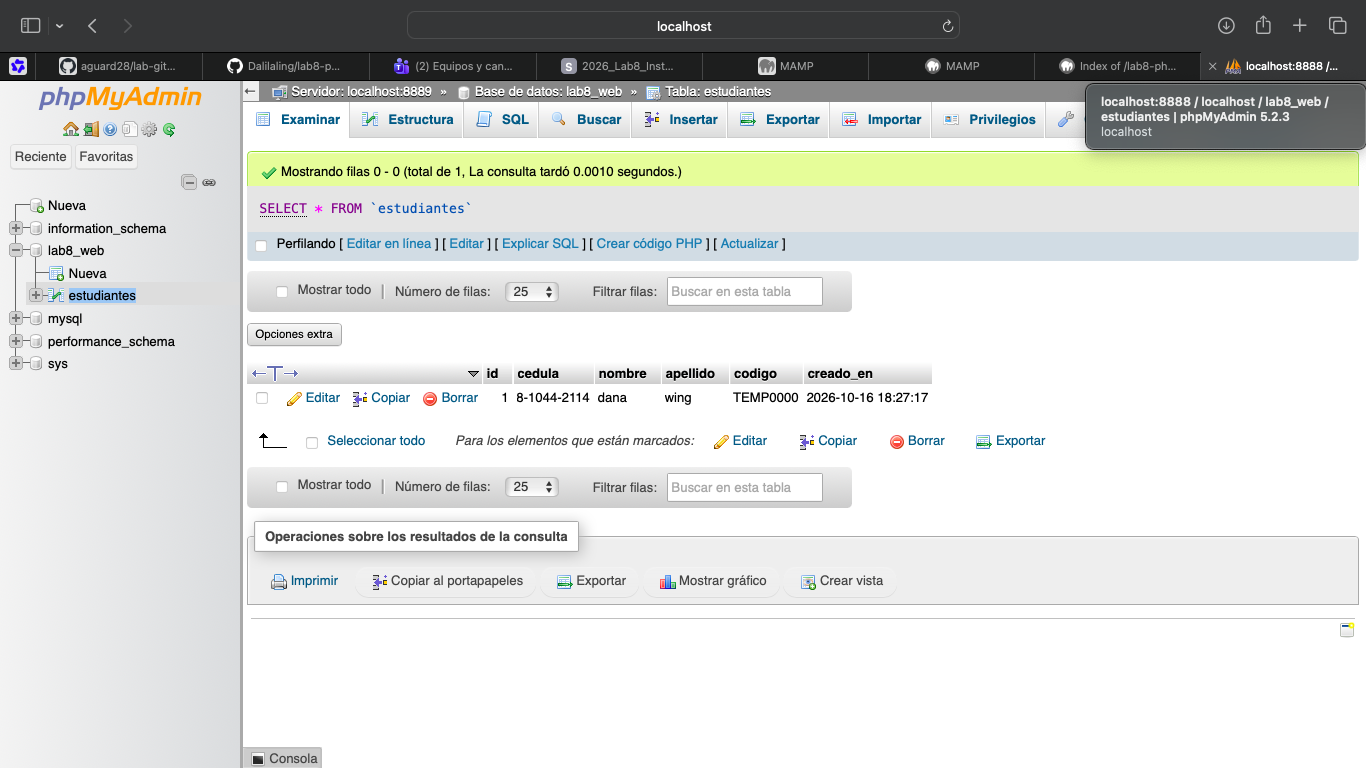
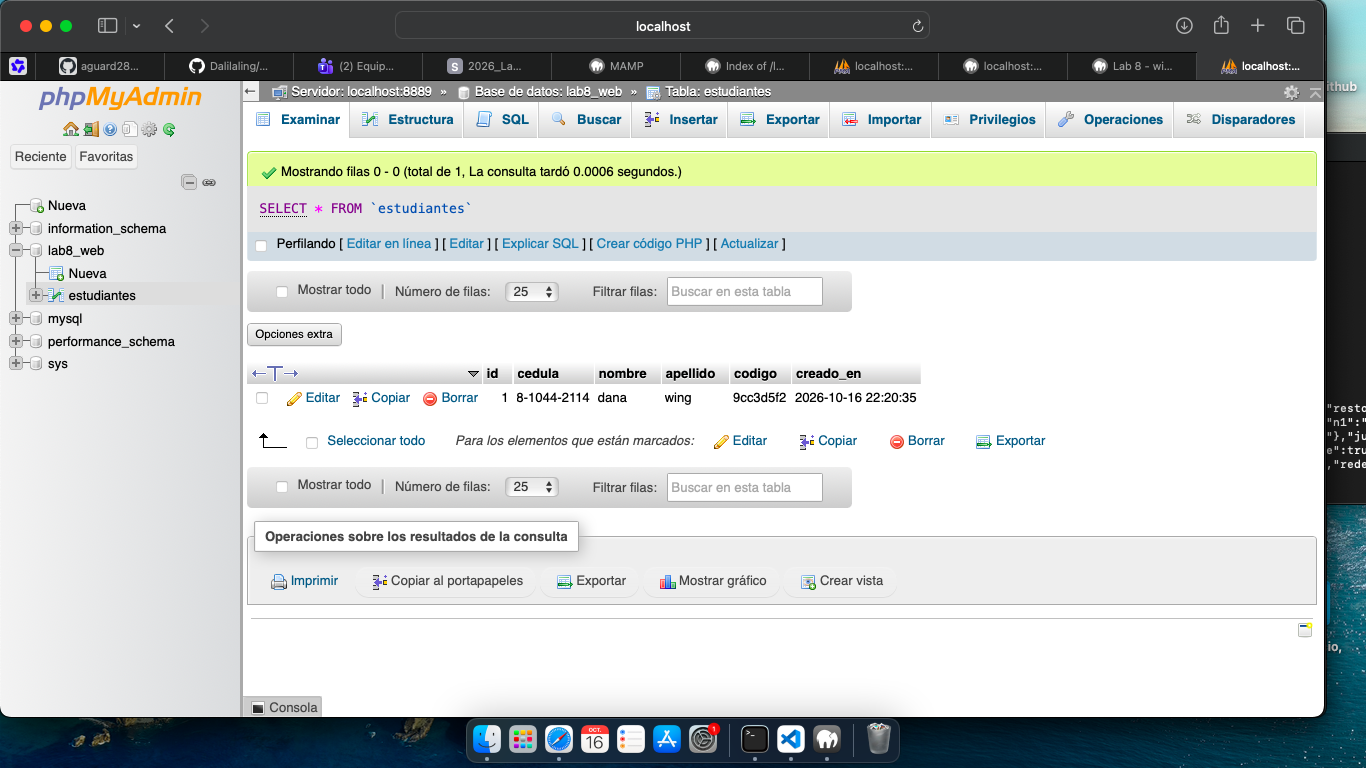
[E3] tipos, conversiones y salida JSON

diff --git a/public/tipos.php b/public/tipos.php
@@ -22,3 +22,59 @@ $cociente = intdiv($n1, $n2);
 
 $nulo = null;
 $lista = [1, 2, 3];
+
+var_dump($codigo, $n1, $precio, $activo, $nulo, $lista);
+
+// El + fuerza a PHP a convertir los strings en números para sumarlos
+$suma_str = "5" + "10";
+
+// El punto es para concatenación así que une los textos en lugar de sumar 
+$concat = "5" . "10";
+
+// Al convertir a entero con (int) PHP solo lee la parte numérica del inicio e ignora las letras que siguen
+$cast_int = (int) "12abc";
+
+// Da false porque los decimales en la PC no son exactos binario
+$float_eq = (0.1 + 0.2 == 0.3);
+
+// Da true porque con == es comparación y  PHP convierte ambos a números '1e1' es notación científica de 10 así que son iguales
+$loose = ("10" == "1e1");
+
+// Da false porque con ===  no convierte, Compara los tal cual y '10' no es igual al string '1e1'.
+$strict = ("10" === "1e1");
+
+
+$resultado = [
+    'codigo'    => $codigo,
+    'n1'        => $n1,
+    'n2'        => $n2,
+    'suma'      => $suma,
+    'division'  => $division,
+    'resto'     => $resto,
+    'cociente'  => $cociente,
+    'precio'    => $precio,
+    'activo'    => $activo,
+    'tipos'     => [
+        'codigo' => gettype($codigo),
+        'n1'     => gettype($n1),
+        'precio' => gettype($precio),
+        'activo' => gettype($activo),
+        'nulo'   => gettype($nulo),
+        'lista'  => gettype($lista)
+    ],
+    'juggling'  => [
+        'suma_str' => $suma_str,
+        'concat'   => $concat,
+        'cast_int' => $cast_int,
+        'float_eq' => $float_eq,
+        'loose'    => $loose,
+        'strict'   => $strict
+    ],
+    'constantes' => [
+        'SEMILLA_LAB8' => constant('SEMILLA_LAB8'),
+        'LAB_NUMERO'   => LAB_NUMERO,
+        'redefinir'    => @define('SEMILLA_LAB8', 'otra')
+    ]
+];
+
+echo "\n##JSON## " . json_encode($resultado) . "\n";
